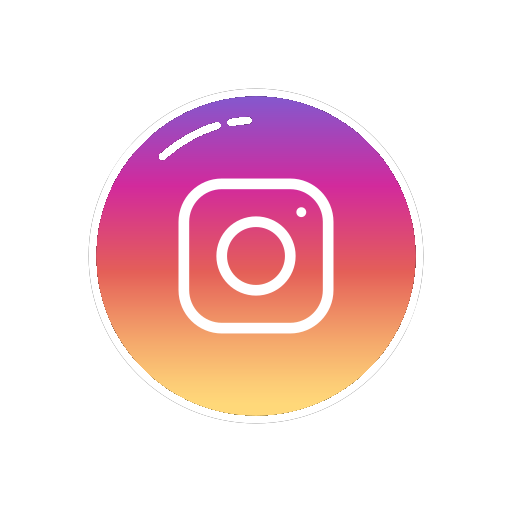
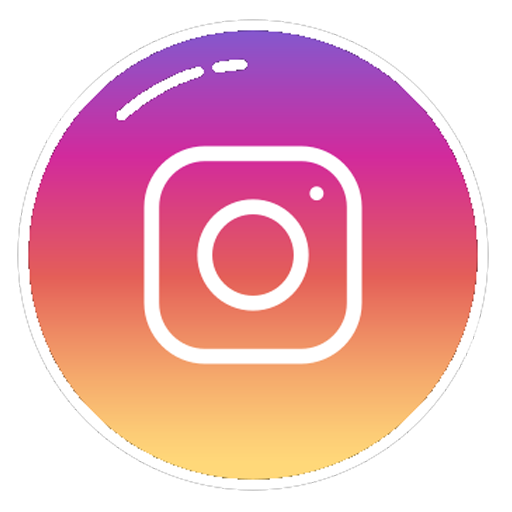
web_test_2.2
update icon
add event homestay pictures

diff --git a/parallaxwebsite/index.html b/parallaxwebsite/index.html
@@ -18,30 +18,36 @@
   </div>
 
   <section class="section section-light">
-    <h2>รู้จักกับ เฌอปราง BNK48</h2>
-    <p>
-      <strong>CHERPRANG AREEKUL</strong>
-      เฌอปราง อารีย์กุล<br>
-      <strong>Birthday</strong> 2 พฤษภาคม 2539<br>
-      <strong>Favorite color</strong> สีขาว<br>
-      <strong>Like</strong> คอสเพลย์ อนิเมะญี่ปุ่น<br>
-      <strong>Hobby</strong> ดูหนัง อ่านหนังสือ ฟังเพลง
-    </p>
-  </section>
-
+    <h2>เฌอแฟนคลับ</h2>
+    <p>แฟนคลับ</p>
+    </section>
   <div class="pimg2">
     <div class="ptext">
       <span class="border trans">
-        Image Two Text
+        <strong>CHERPRANG AREEKUL</strong>
+      เฌอปราง อารีย์กุล<br>
       </span>
     </div>
   </div>
 
   <section class="section section-dark">
-    <h2>Section Two</h2>
+    <h2>รู้จักกับ เฌอปราง BNK48</h2>
     <p>
-      Lorem ipsum dolor sit amet, consectetur adipisicing elit. Sunt, laudantium, quibusdam? Nobis, delectus, commodi, fugit amet tempora facere dolores nisi facilis consequatur, odio hic minima nostrum. Perferendis eos earum praesentium, blanditiis sapiente labore aliquam ipsa architecto vitae. Minima soluta temporibus voluptates inventore commodi cumque esse suscipit optio aliquam et, dolorem a cupiditate nihil fuga laboriosam fugiat placeat dignissimos! Unde eveniet placeat quisquam blanditiis voluptatem doloremque fugiat dolor repellendus ratione in.
+      
+      <strong>Birthday</strong> 2 พฤษภาคม 2539<br>
+      <strong>Favorite color</strong> สีขาว<br>
+      <strong>Like</strong> คอสเพลย์ อนิเมะญี่ปุ่น<br>
+      <strong>Hobby</strong> ดูหนัง อ่านหนังสือ ฟังเพลง
     </p>
+    <a href='https://www.facebook.com/bnk48official.cherprang' target='_blank'>
+      <img src="img/fbicon.png" class="iconfacebook">
+    </a>
+    <span>Cherprang BNK48</span> 
+    <br>     
+      <a href='https://www.instagram.com/cherprang.bnk48official/?hl=th' target='_blank'> 
+      <img src='img/igicon.png' class='iconig'>
+    </a>
+    <span>cherprang.bnk48official</span>
   </section>
 
   <div class="pimg3">

diff --git a/parallaxwebsite/css/style.css b/parallaxwebsite/css/style.css
@@ -81,3 +81,21 @@ body, html{
 p, h2 {
   font-family: 'Prompt', sans-serif;
 }
+
+.iconfacebook{ 
+  font-size: 24px; 
+  line-height: 24px; 
+  height: 24px; 
+  width: 24px;
+  position: absolute;
+  margin-left: -30px; 
+}
+
+.iconig{
+  font-size: 24px; 
+  line-height: 24px; 
+  height: 24px; 
+  width: 24px;
+  position: absolute;
+  margin-left: -30px; 
+}
